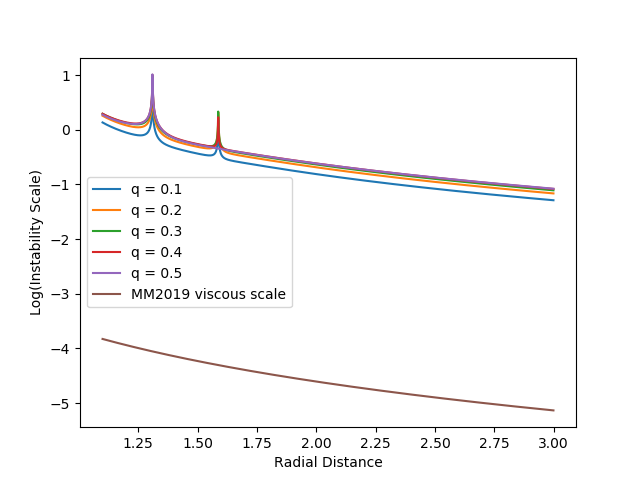
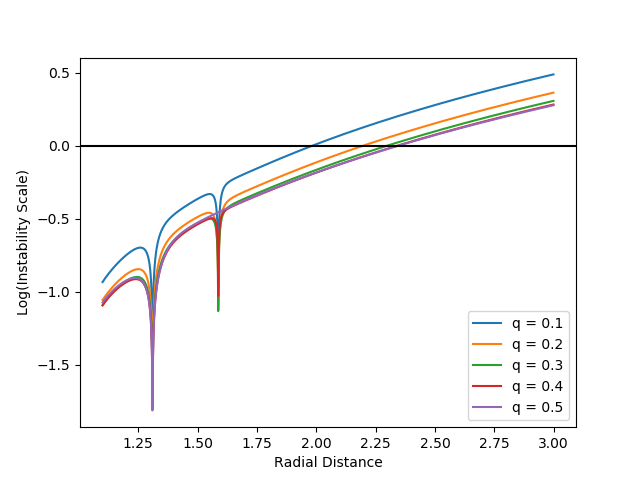
gap sizes

diff --git a/Results/PlotLyapExponents.py b/Results/PlotLyapExponents.py
@@ -1,20 +1,35 @@
 import numpy as np
 import matplotlib.pyplot as plt
 
+gap_sizes = []
+
 for i in range(5):
     res_file_name = "LyapExpComputation"+str(i+1)+".txt"
     data = np.loadtxt(res_file_name)
     data_label = 'q = 0.'+str(i+1)
     r = data[:,0]
     max_lyap = np.array([max(data[j,1:]) for j in range(len(data))])
-    plt.plot(r,np.log10(max_lyap),label = data_label)
+    time_scales = np.log10(1/max_lyap/2/np.pi)
+    gap_sizes.append([(i+1)*0.1,r[np.abs(time_scales).argmin()]])
+    plt.plot(r,time_scales,label = data_label)
+    
 
-plt.plot(r,-np.log10(1600*2*np.pi*(r**3/2)), label = "MM2019 viscous scale")
+#plt.plot(r,-np.log10(1600*2*np.pi*(r**3/2)), label = "MM2019 viscous scale")
 
 
-#plt.axhline(np.log10(1./3e-4),label = "viscous scale")
+plt.axhline(0,color = 'black')
 plt.xlabel("Radial Distance")
 plt.ylabel("Log(Instability Scale)")
 plt.legend()
 plt.savefig("InstabilityScale.png")
 plt.show()
+
+gap_sizes = np.array(gap_sizes)
+np.savetxt("gap_sizes.txt",gap_sizes)
+plt.plot(gap_sizes[:,0],gap_sizes[:,1])
+plt.ylabel("Gap Size")
+plt.xlabel("Mass Ratio")
+plt.savefig("GapSizes.png")
+plt.show()
+
+

diff --git a/Results/GapSizeComputation.py b/Results/GapSizeComputation.py
@@ -1,0 +1,6 @@
+import numpy as np
+import matplotlib.pyplot as plt
+
+func = np.loadtxt("Timescales.txt")
+
+
